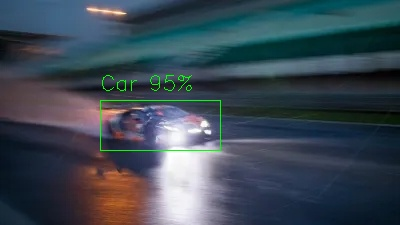
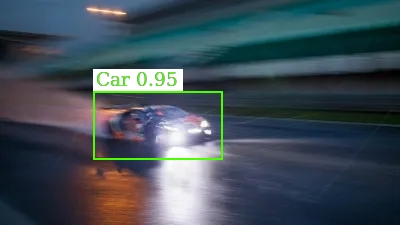
Readme.md

Changed region(s): [[0.21, 0.28, 0.57, 0.7156]]

diff --git a/augmentation/rotate_and_resize.py b/augmentation/rotate_and_resize.py
@@ -1,0 +1,299 @@
+import os
+import cv2
+import argparse
+import numpy as np
+from glob import glob
+
+# =========================================================
+# ARGUMENTS
+# =========================================================
+parser = argparse.ArgumentParser()
+
+parser.add_argument(
+    "dataset_input",
+    nargs="?",          # <-- allow optional input
+    default="./cars",   # <-- BASE BATCH ADDED HERE
+    help="dataset folder with images + yolo txt"
+)
+
+parser.add_argument(
+    "-o",
+    "--output",
+    default="generated_dataset",
+    help="output folder"
+)
+
+parser.add_argument(
+    "--min_size",
+    type=int,
+    default=12,
+    help="minimum bbox size"
+)
+
+parser.add_argument(
+    "--max_size",
+    type=int,
+    default=100,
+    help="maximum bbox size"
+)
+
+parser.add_argument(
+    "--copies",
+    type=int,
+    default=10,
+    help="generated copies per image"
+)
+
+parser.add_argument(
+    "--angles",
+    nargs="+",
+    type=float,
+    default=[0, 45, -45, 90, -90,135,-135,180],
+    help="rotation angles"
+)
+
+parser.add_argument(
+    "--show",
+    action="store_true"
+)
+
+args = parser.parse_args()
+
+# =========================================================
+# SETTINGS
+# =========================================================
+dataset_input = args.dataset_input
+dataset_output = args.output
+
+MIN_SIZE = args.min_size
+MAX_SIZE = args.max_size
+
+COPIES = args.copies
+ANGLES = args.angles
+
+SHOW = args.show
+
+print(f"[INFO] Using dataset: {dataset_input}")
+
+# =========================================================
+# OUTPUT DIRS
+# =========================================================
+images_out = os.path.join(dataset_output, "images")
+labels_out = os.path.join(dataset_output, "labels")
+
+os.makedirs(images_out, exist_ok=True)
+os.makedirs(labels_out, exist_ok=True)
+
+# =========================================================
+# YOLO HELPERS
+# =========================================================
+def yolo_to_xyxy(label, W, H):
+
+    cls = label[0]
+
+    xc = float(label[1]) * W
+    yc = float(label[2]) * H
+
+    bw = float(label[3]) * W
+    bh = float(label[4]) * H
+
+    x1 = int(xc - bw / 2)
+    y1 = int(yc - bh / 2)
+
+    x2 = int(xc + bw / 2)
+    y2 = int(yc + bh / 2)
+
+    return cls, x1, y1, x2, y2
+
+
+def xyxy_to_yolo(cls, x1, y1, x2, y2, W, H):
+
+    xc = ((x1 + x2) / 2) / W
+    yc = ((y1 + y2) / 2) / H
+
+    bw = (x2 - x1) / W
+    bh = (y2 - y1) / W
+
+    return [cls, xc, yc, bw, bh]
+
+# =========================================================
+# ROTATE IMAGE + BBOX
+# =========================================================
+def rotate_image_and_bbox(image, bbox, angle):
+
+    H, W = image.shape[:2]
+
+    cx = W // 2
+    cy = H // 2
+
+    matrix = cv2.getRotationMatrix2D((cx, cy), angle, 1.0)
+
+    rotated = cv2.warpAffine(
+        image,
+        matrix,
+        (W, H),
+        borderMode=cv2.BORDER_REFLECT_101
+    )
+
+    x1, y1, x2, y2 = bbox
+
+    points = np.array([
+        [x1, y1, 1],
+        [x2, y1, 1],
+        [x2, y2, 1],
+        [x1, y2, 1]
+    ]).T
+
+    transformed = np.dot(matrix, points).T
+
+    rx1 = int(np.min(transformed[:, 0]))
+    ry1 = int(np.min(transformed[:, 1]))
+    rx2 = int(np.max(transformed[:, 0]))
+    ry2 = int(np.max(transformed[:, 1]))
+
+    rx1 = max(0, min(W - 1, rx1))
+    ry1 = max(0, min(H - 1, ry1))
+    rx2 = max(0, min(W - 1, rx2))
+    ry2 = max(0, min(H - 1, ry2))
+
+    return rotated, [rx1, ry1, rx2, ry2]
+
+# =========================================================
+# IMAGE FILES
+# =========================================================
+image_files = []
+
+for ext in ["*.jpg", "*.jpeg", "*.png"]:
+    image_files.extend(glob(os.path.join(dataset_input, ext)))
+
+image_files = sorted(image_files)
+
+print("images:", len(image_files))
+
+# =========================================================
+# MAIN
+# =========================================================
+for image_path in image_files:
+
+    base = os.path.splitext(os.path.basename(image_path))[0]
+
+    label_path = os.path.join(dataset_input, base + ".txt")
+
+    if not os.path.exists(label_path):
+        continue
+
+    image = cv2.imread(image_path)
+    if image is None:
+        continue
+
+    H, W = image.shape[:2]
+
+    with open(label_path) as f:
+        labels = f.readlines()
+
+    if len(labels) == 0:
+        continue
+
+    label = labels[0].strip().split()
+
+    if len(label) != 5:
+        continue
+
+    cls, x1, y1, x2, y2 = yolo_to_xyxy(label, W, H)
+
+    bbox_w = x2 - x1
+    bbox_h = y2 - y1
+
+    if bbox_w <= 0 or bbox_h <= 0:
+        continue
+
+    cx = (x1 + x2) // 2
+    cy = (y1 + y2) // 2
+
+    # =====================================================
+    # GENERATE
+    # =====================================================
+    for i in range(COPIES):
+
+        target_size = np.random.randint(MIN_SIZE, MAX_SIZE + 1)
+
+        if bbox_w > bbox_h:
+            scale = target_size / bbox_w
+        else:
+            scale = target_size / bbox_h
+
+        scaled = cv2.resize(image, None, fx=scale, fy=scale)
+
+        scaled_H, scaled_W = scaled.shape[:2]
+
+        scx = int(cx * scale)
+        scy = int(cy * scale)
+
+        canvas = np.zeros_like(image)
+
+        start_x = scx - W // 2
+        start_y = scy - H // 2
+
+        end_x = start_x + W
+        end_y = start_y + H
+
+        src_x1 = max(0, start_x)
+        src_y1 = max(0, start_y)
+        src_x2 = min(scaled_W, end_x)
+        src_y2 = min(scaled_H, end_y)
+
+        dst_x1 = max(0, -start_x)
+        dst_y1 = max(0, -start_y)
+        dst_x2 = dst_x1 + (src_x2 - src_x1)
+        dst_y2 = dst_y1 + (src_y2 - src_y1)
+
+        canvas[dst_y1:dst_y2, dst_x1:dst_x2] = scaled[src_y1:src_y2, src_x1:src_x2]
+
+        nx1 = int(x1 * scale - start_x)
+        ny1 = int(y1 * scale - start_y)
+        nx2 = int(x2 * scale - start_x)
+        ny2 = int(y2 * scale - start_y)
+
+        nx1 = max(0, min(W - 1, nx1))
+        ny1 = max(0, min(H - 1, ny1))
+        nx2 = max(0, min(W - 1, nx2))
+        ny2 = max(0, min(H - 1, ny2))
+
+        if nx2 <= nx1 or ny2 <= ny1:
+            continue
+
+        for angle in ANGLES:
+
+            rotated_img, rotated_bbox = rotate_image_and_bbox(
+                canvas,
+                [nx1, ny1, nx2, ny2],
+                angle
+            )
+
+            rx1, ry1, rx2, ry2 = rotated_bbox
+
+            if rx2 <= rx1 or ry2 <= ry1:
+                continue
+
+            yolo_label = xyxy_to_yolo(cls, rx1, ry1, rx2, ry2, W, H)
+
+            angle_name = str(angle).replace("-", "m")
+
+            out_img = os.path.join(images_out, f"{base}_{i}_rot_{angle_name}.jpg")
+            out_lbl = os.path.join(labels_out, f"{base}_{i}_rot_{angle_name}.txt")
+
+            cv2.imwrite(out_img, rotated_img)
+
+            with open(out_lbl, "w") as f:
+                f.write(" ".join(map(str, yolo_label)))
+
+            if SHOW:
+                preview = rotated_img.copy()
+                cv2.rectangle(preview, (rx1, ry1), (rx2, ry2), (255, 255, 255), 2)
+                cv2.imshow("preview", preview)
+
+                if cv2.waitKey(0) == ord("q"):
+                    exit()
+
+cv2.destroyAllWindows()
+print("DONE")

diff --git a/README.md b/README.md
@@ -12,7 +12,7 @@ c) якщо це у нас моушн-камера, яка дуже швидко
   <img src="images/car1.jpg" width="40%" />
 </p>
 
-Чому це важливо — бо якщо ми натренуємо детектор на ідеальних зображеннях, а реальні будуть розмиті, то він не буде працювати. Тому нам потрібно зрозуміти нюанси наших даних і створити або ідентичні, або різноманітні дані, які охоплюють усі робочі режими.
+Чому це важливо — для того щоб детектор працював дані мають бути схожі до тих на яких він буде працювати. Тому нам потрібно зрозуміти нюанси наших даних і створити або ідентичні, або різноманітні дані, які охоплюють усі робочі режими. (розміри об"єктів, point of view, їх можливі спотворення і тд)
 
 ## 1. Формуємо ТЗ для нашого детектора
 
@@ -54,7 +54,28 @@ c) якщо це у нас моушн-камера, яка дуже швидко
 
 3) Ще мільйон різних варіантів можна придумати, використовуючи фантазію.
 
-4) **Аугментація** — оскільки на співбесіді звучала фраза «а що там аугментувати», я обираю цей підхід як спосіб вирішення задачі, щоб показати, як можна працювати з даними лише за рахунок аугментацій.
+4) **Аугментація** — оскільки на співбесіді звучала фраза **а що там аугментувати** то я обираю цей підхід! Щоб показати, як можна вирішити цю задачу і нагенерувати мільйон датасета суто аугментацією
+
+
+## 3. The auto-labeling
+
+Для автолейбелінгу ми створимо скрипт який за допомогою аугментація створить нам велетенську кучу даних і все шо нам потрібно це розмітити декілька якісних знімків, наприклад 5-10 штучок і це нам дозволить отримати наприклад 1000-5000
+
+Для цього ми беремо декілька найбільш деталізованих зображеннь автомобілів з декількох сторін:
+	1) наприклад 2 машинки зверху, в гарній якості
+	2) 2 машинки збоку в гарній якості
+	3) машинку ззаду
+	4) машинку спереду
+
+<p align="center">
+  <img src="images/augmentaion.jpg" width="40%" />
+</p>
+
+
+
+
+
+
 
 
 

diff --git a/augmentation/readme.md b/augmentation/readme.md
@@ -1,0 +1,12 @@
+# This script augments car detection datasets in YOLO format.   
+## Цей код агментує машинки в папці cars для нашої таски
+
+This script generates augmented YOLO-format training images by resizing objects to random sizes and optionally rotating them.
+
+## What it does
+
+It was created for our car detection task and generates additional training samples by:
+
+- randomly resizing cars,
+- keeping the original image size,
+- rotating images and bounding boxes,